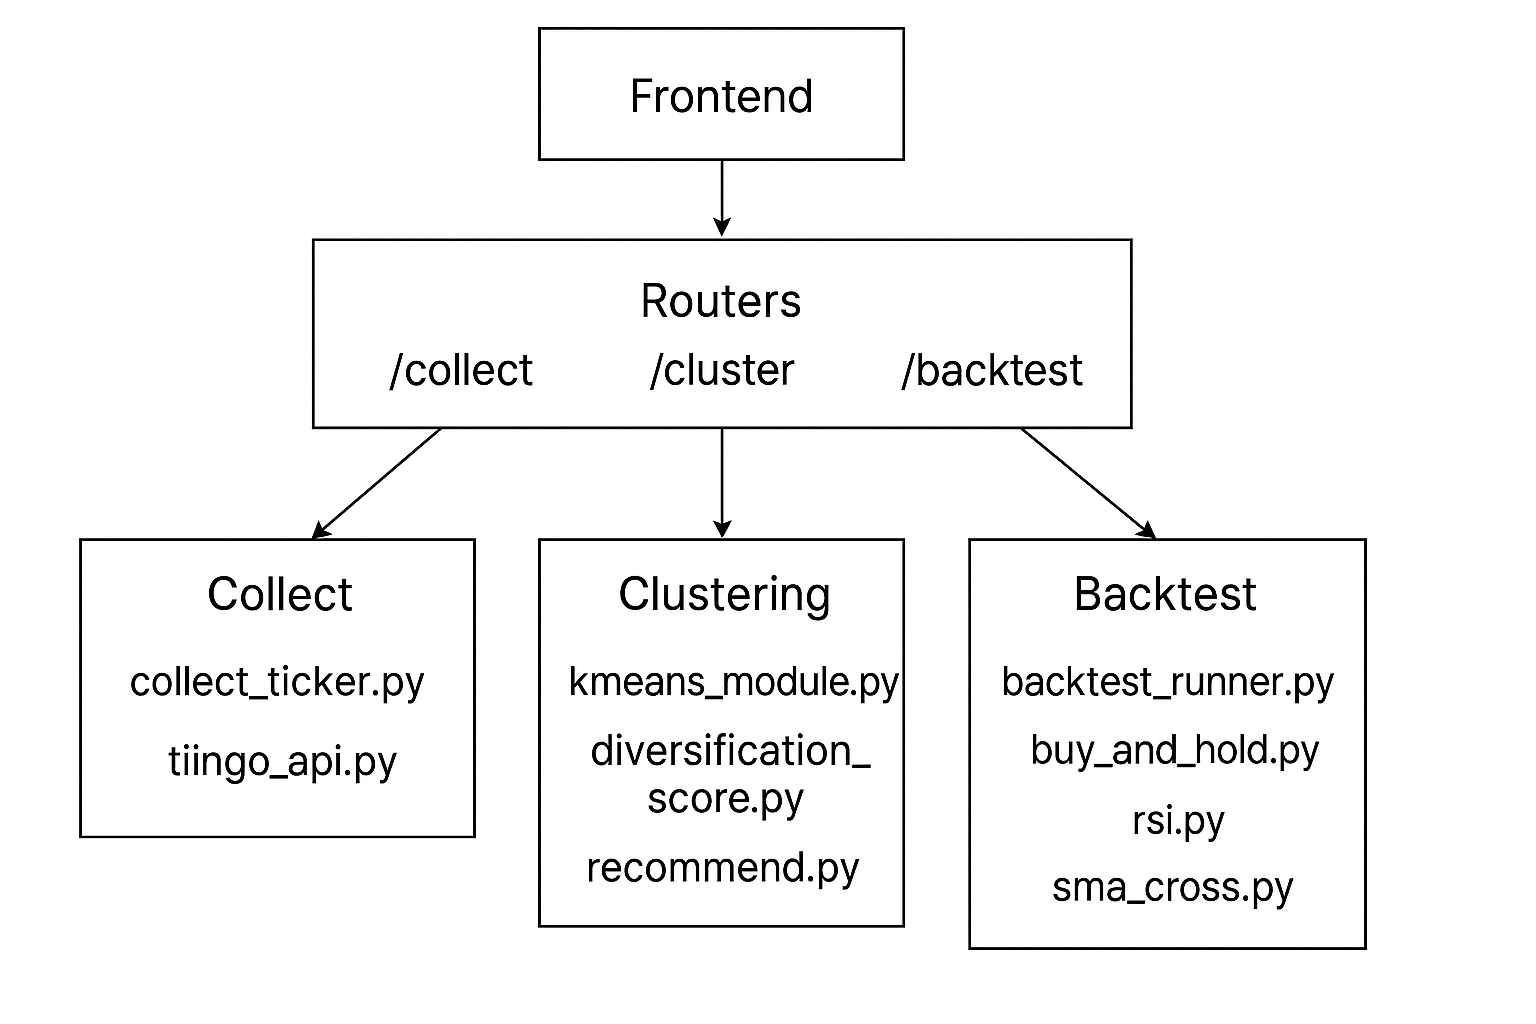
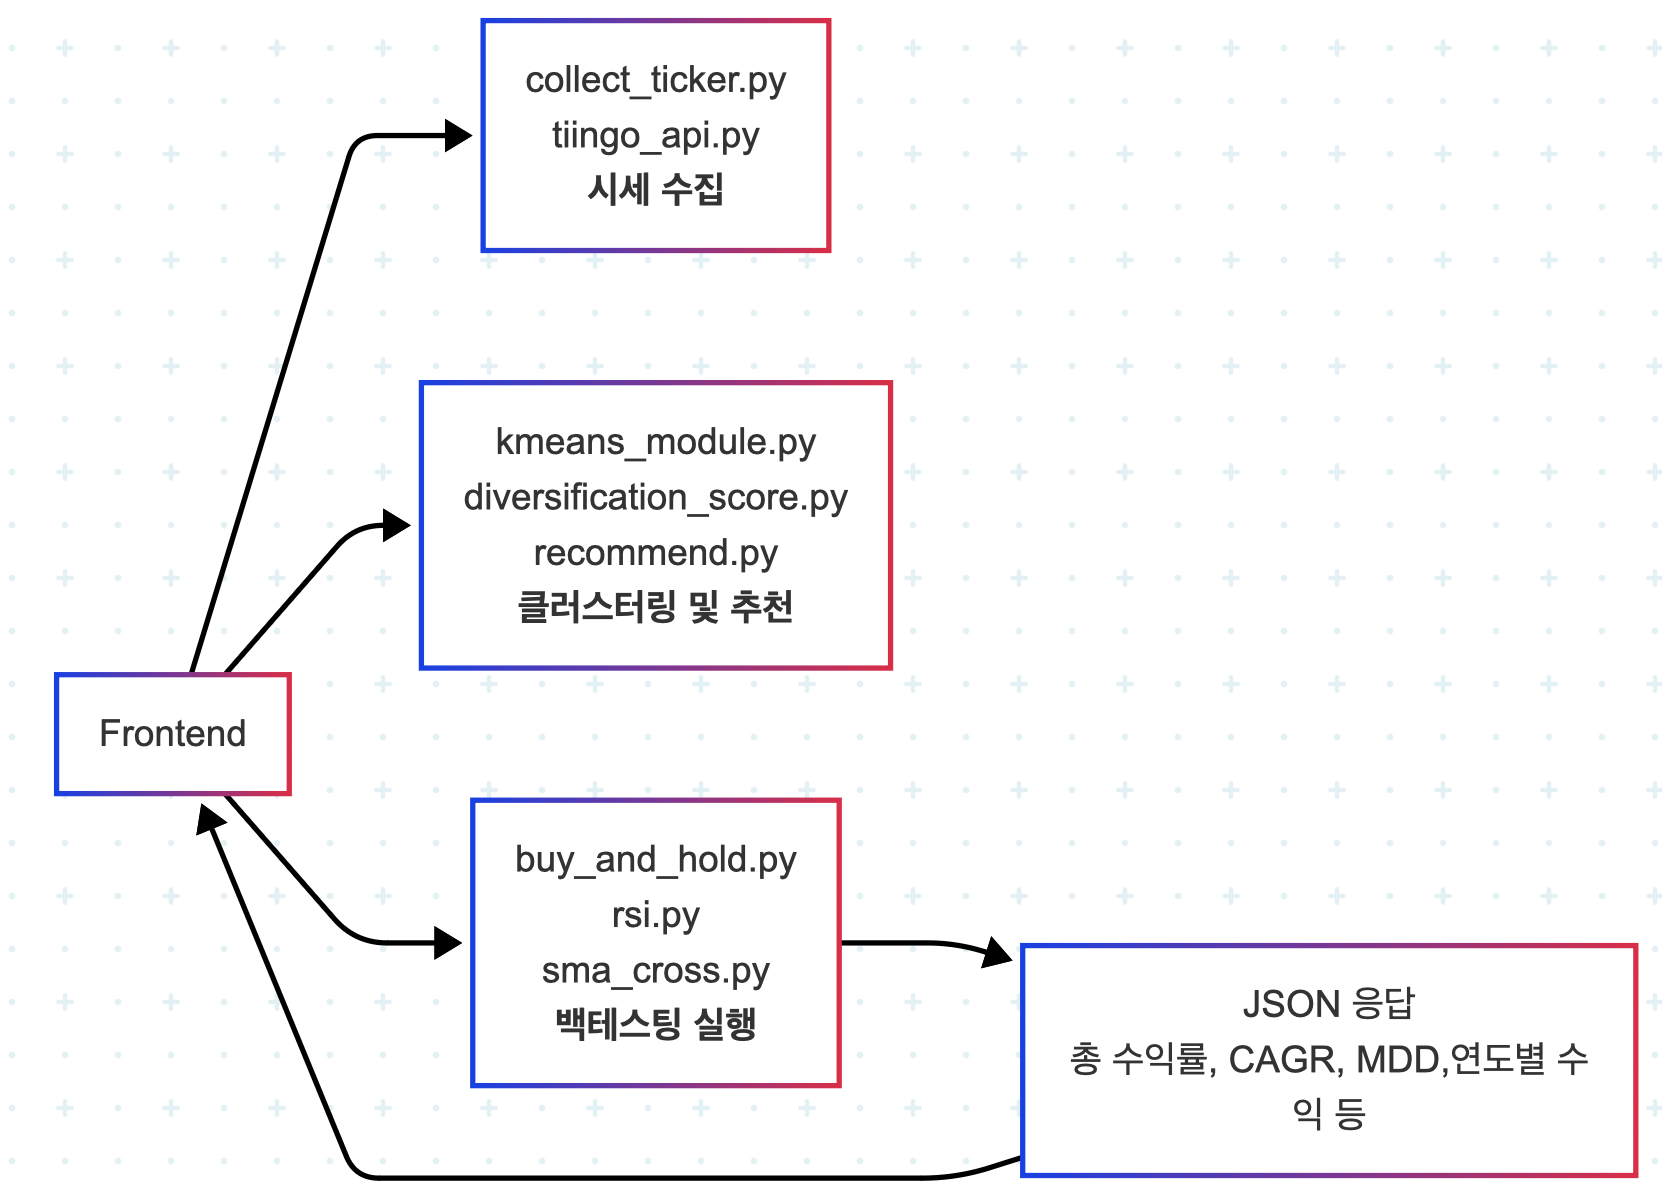
📝docs: 백엔드 문서화
백엔드의 docs 디렉토리에 작성한 파일에 피드백을 반영한다.

Closes #68

diff --git a/docs/architecture/architecture.md b/docs/architecture/architecture.md
@@ -2,7 +2,7 @@
 
 ## 시스템 구성도
 
-![architecture_image.png](%E1%84%8C%E1%85%A6%E1%84%86%E1%85%A9%E1%86%A8%20%E1%84%8B%E1%85%A5%E1%86%B9%E1%84%8B%E1%85%B3%E1%86%B7%./architecture_image.png)
+![시스템 구성도](./architecture_image.png)
 
 ---
 
@@ -76,28 +76,9 @@ backend/
 
 ---
 
-## 💡 실제 시스템 흐름 (프론트 기준)
+## 💡 데이터 수집 데이터 흐름도
 
-```
-flowchart TD
-    A[Frontend] --> B[Routers]
-    B --> C1[/collect/]
-    B --> C2[/cluster/]
-    B --> C3[/backtest/]
-
-    C1 --> D1[Collect
-collect_ticker.py
-tiingo_api.py]
-    C2 --> D2[Clustering
-kmeans_module.py
-diversification_score.py
-recommend.py]
-    C3 --> D3[Backtest
-backtest_runner.py
-buy_and_hold.py
-rsi.py
-sma_cross.py]
-```
+![데이터 수집 데이터 흐름도](./data_flow_image.png)
 
 ---
 
